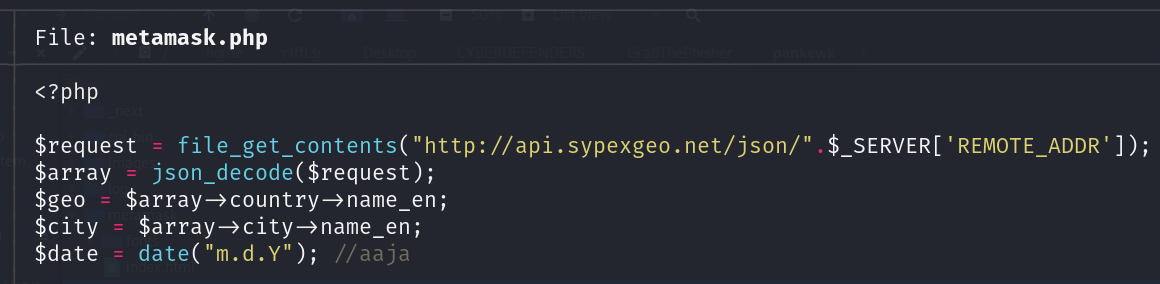
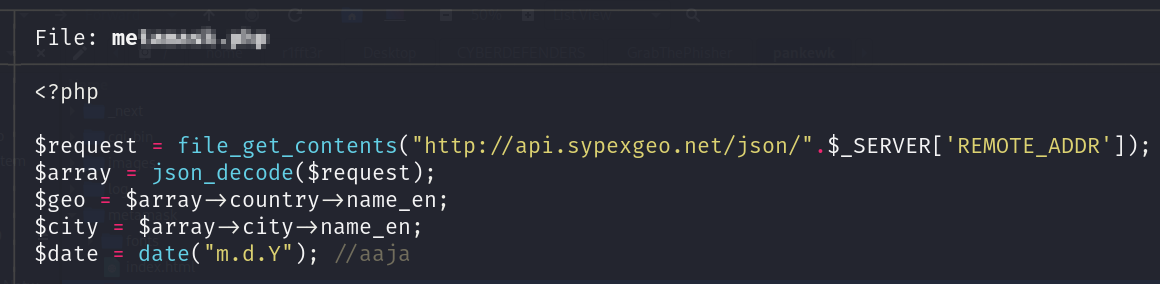
grabthephisher fix

Changed region(s): [[0.0931, 0.0845, 0.2483, 0.169]]

diff --git a/_posts/2023-09-30-GrabThePhisher.md b/_posts/2023-09-30-GrabThePhisher.md
@@ -23,21 +23,21 @@ Habiendo proporcionado el **kit de phishing**, se le pide a usted, como SOC Anal
 ### P1 - ¿Qué wallet se utiliza para pedir la "seed phrase"?
 ![](Pasted image 20230928215250.png)
 
-Si vemos los directorios dentro de **"pankewk"** nos encontramos con uno llamado **"metamask"**, nombre de una extensión para navegadores que sirve como **wallet** para interactuar con blockchains.
+Si vemos los directorios dentro de **"pankewk"** nos encontramos con uno llamado **me\*\*\*\*\*\***, nombre de una extensión para navegadores que sirve como **wallet** para interactuar con blockchains.
 
 ### P2 - ¿Cuál es el nombre del archivo que contiene el código para el kit de phishing?
 
-Dentro de la misma carpeta podemos encontrar una carpeta y dos archivos, uno de ellos llamado **"metamask.php"**, que contiene el código del **kit**.
+Dentro de la misma carpeta podemos encontrar una carpeta y dos archivos, uno de ellos llamado **me\*\*\*\*\*\*.\*\*\***, que contiene el código del **kit**.
  
 ### P3 - ¿En que lenguaje está escrito el kit?
 
 ![](Pasted image 20230928221321.png)
-Analizando el código y la extensión del archivo, el **kit** se encuentra programado en PHP.
+Analizando el código y la extensión del archivo, el **kit** se encuentra programado en P**.
 
 ### P4 - ¿Qué servicio usa el kit para extraer la información de la máquina victima?
 
 ![](Pasted image 20230928221940.png)
-En la primera línea del archivo se puede observar que realiza una solicitud a una API en `http://api.sypexgeo.net/json/` con la **dirección IP** del cliente. De esta manera consigue obtener la geolocalización de la victima.
+En la primera línea del archivo se puede observar que realiza una solicitud a una API en `http://api.sy******.net/json/` con la **dirección IP** del cliente. De esta manera consigue obtener la geolocalización de la victima.
 
 ### P5 - ¿Cuantas "seed phrases" hay recolectadas?
 
@@ -50,12 +50,12 @@ Leyendo el archivo `log.txt` vemos un total de 36 palabras, como las **"seed phr
 ### P6 - Escribe la "seed phrase" del incidente de phishing más reciente
 
 ![](Pasted image 20230928223306.png)
-La **"seed phrase"** más reciente sería `"father also recycle embody balance concert mechanic believe owner pair muffin hockey"`.
+La **"seed phrase"** más reciente sería `"fa**** al** re***** em**** ba***** co***** me****** be***** ow*** pa** mu**** ho****"`.
 
 ### P7 - ¿Qué medio se utilizó para el volcado de credenciales (Credential Dumping)?
 
 ![](Pasted image 20230929023103.png)
-En la línea 34 del código se utiliza la API de `Telegram` para enviar la data almacenada en la variable `$message`.
+En la línea 34 del código se utiliza la API de `Te******` para enviar la data almacenada en la variable `$message`.
 
 ### P8 - ¿Cuál es el token del canal?
 
@@ -79,20 +79,21 @@ Este es un pequeño regalo para mis hermanos,
 Todo lo mejor con su suerte,
 
 Saludos, 
-j1j1b1s@m3r0
+j1*****@m3**
 ```
 
 ### P11 - ¿Cuál es el nombre completo del "Phish Actor"?
 
-Ya que tenemos el **ID** del atacante junto con la API de telegram, podemos realizar una consulta con el siguiente comando:
+Ya que tenemos el **ID** del atacante junto con la API de te******, podemos realizar una consulta con el siguiente comando:
 
 ```bash
-curl -s -X GET https://api.telegram.org/bot5457463144:AAG8t4k7e2ew3tTi0IBShcWbSia0Irvxm10/getChat?chat_id=5442785564 | jq
+curl -s -X GET https://api.te******.org/bot<TOKEN>/getChat?chat_id=<ID> | jq
 ```
+
 ![](Pasted image 20230929025008.png)
 
 ### P12 - ¿Cuál es el nombre de usuario del "Phish Actor"?
 
-El nombre de usuario sería `pumpkinboii`.
+El nombre de usuario sería `pu*********`.
 
 ![](GrabThePhisher2.png)
